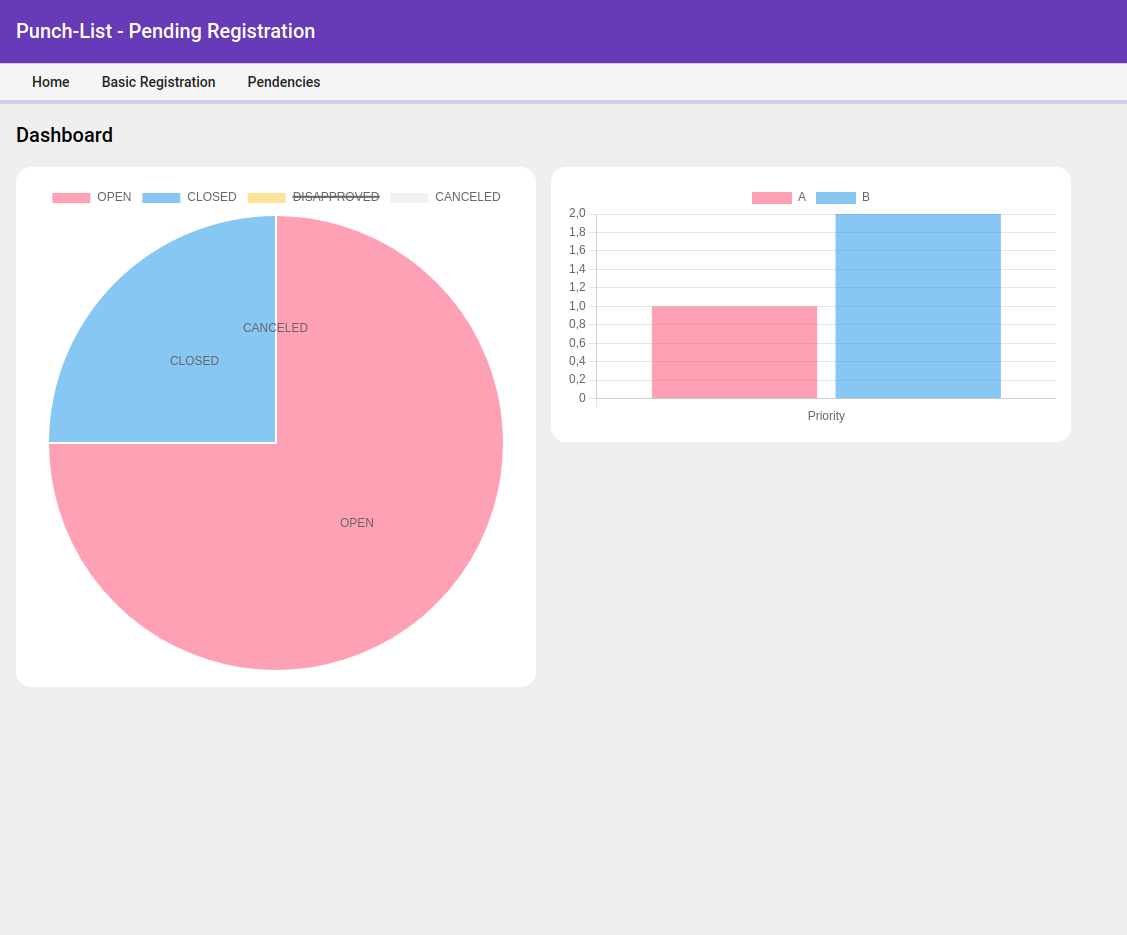
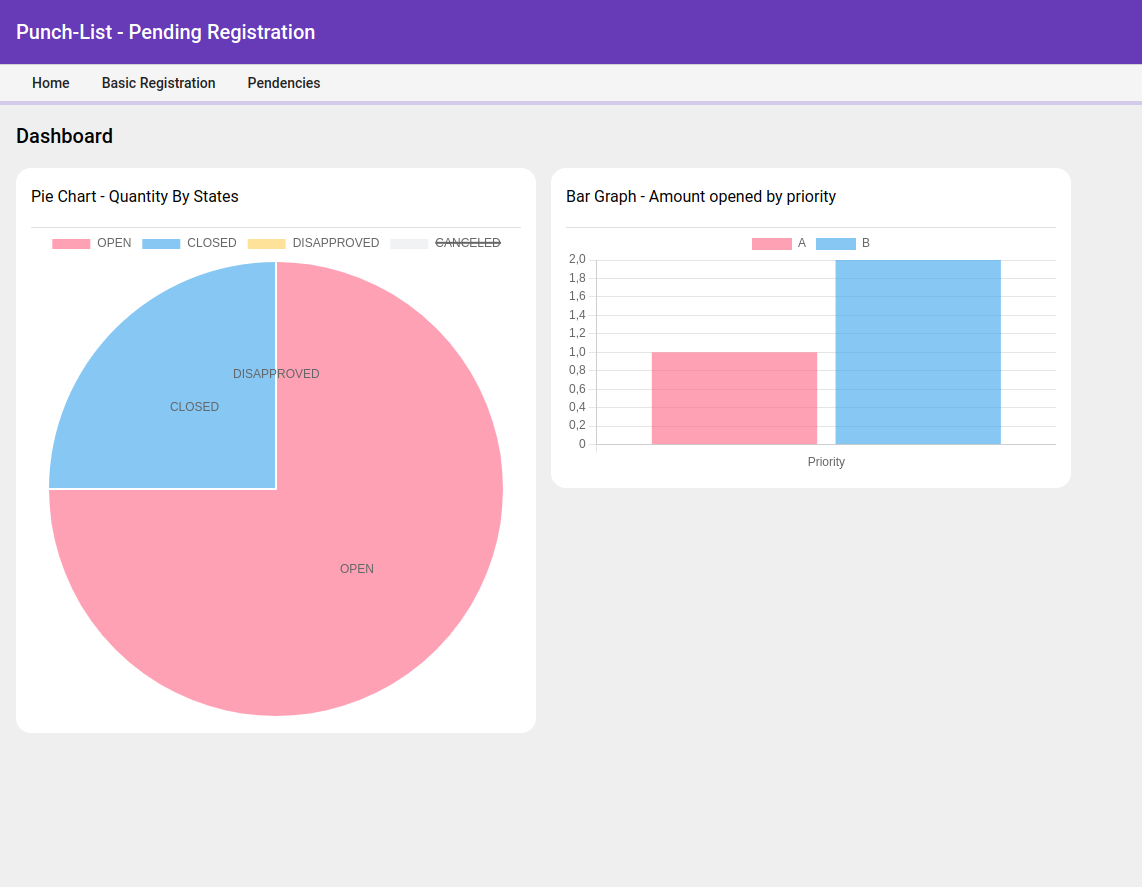
Added the message not data in charts and added new printscreen for README

diff --git a/src/app/pages/home/chart-bar-pendency-by-priority/chart-bar-pendency-by-priority.component.html b/src/app/pages/home/chart-bar-pendency-by-priority/chart-bar-pendency-by-priority.component.html
@@ -1,5 +1,9 @@
 <div class="chart-bar">
+  <h3>Bar Graph - Amount opened by priority</h3>
+  <mat-divider></mat-divider>
+  <div *ngIf="pendencyDataSet.length === 0" class="no-data">No data</div>
   <canvas baseChart
+          *ngIf="pendencyDataSet.length > 0"
           [data]="barChartData"
           [type]="barChartType">
           [options]="barChartOptions"

diff --git a/src/app/pages/home/chart-pie-pendency-by-status/chart-pie-pendency-by-status.component.html b/src/app/pages/home/chart-pie-pendency-by-status/chart-pie-pendency-by-status.component.html
@@ -1,5 +1,9 @@
 <div class="chart-pie">
+  <h3>Pie Chart - Quantity By States</h3>
+  <mat-divider></mat-divider>
+  <div *ngIf="pendencyQuantity.length === 0" class="no-data">No data</div>
   <canvas baseChart
+          *ngIf="pendencyQuantity.length > 0"
           [data]="pieChartData"
           [type]="pieChartType"
           [options]="pieChartOptions"
